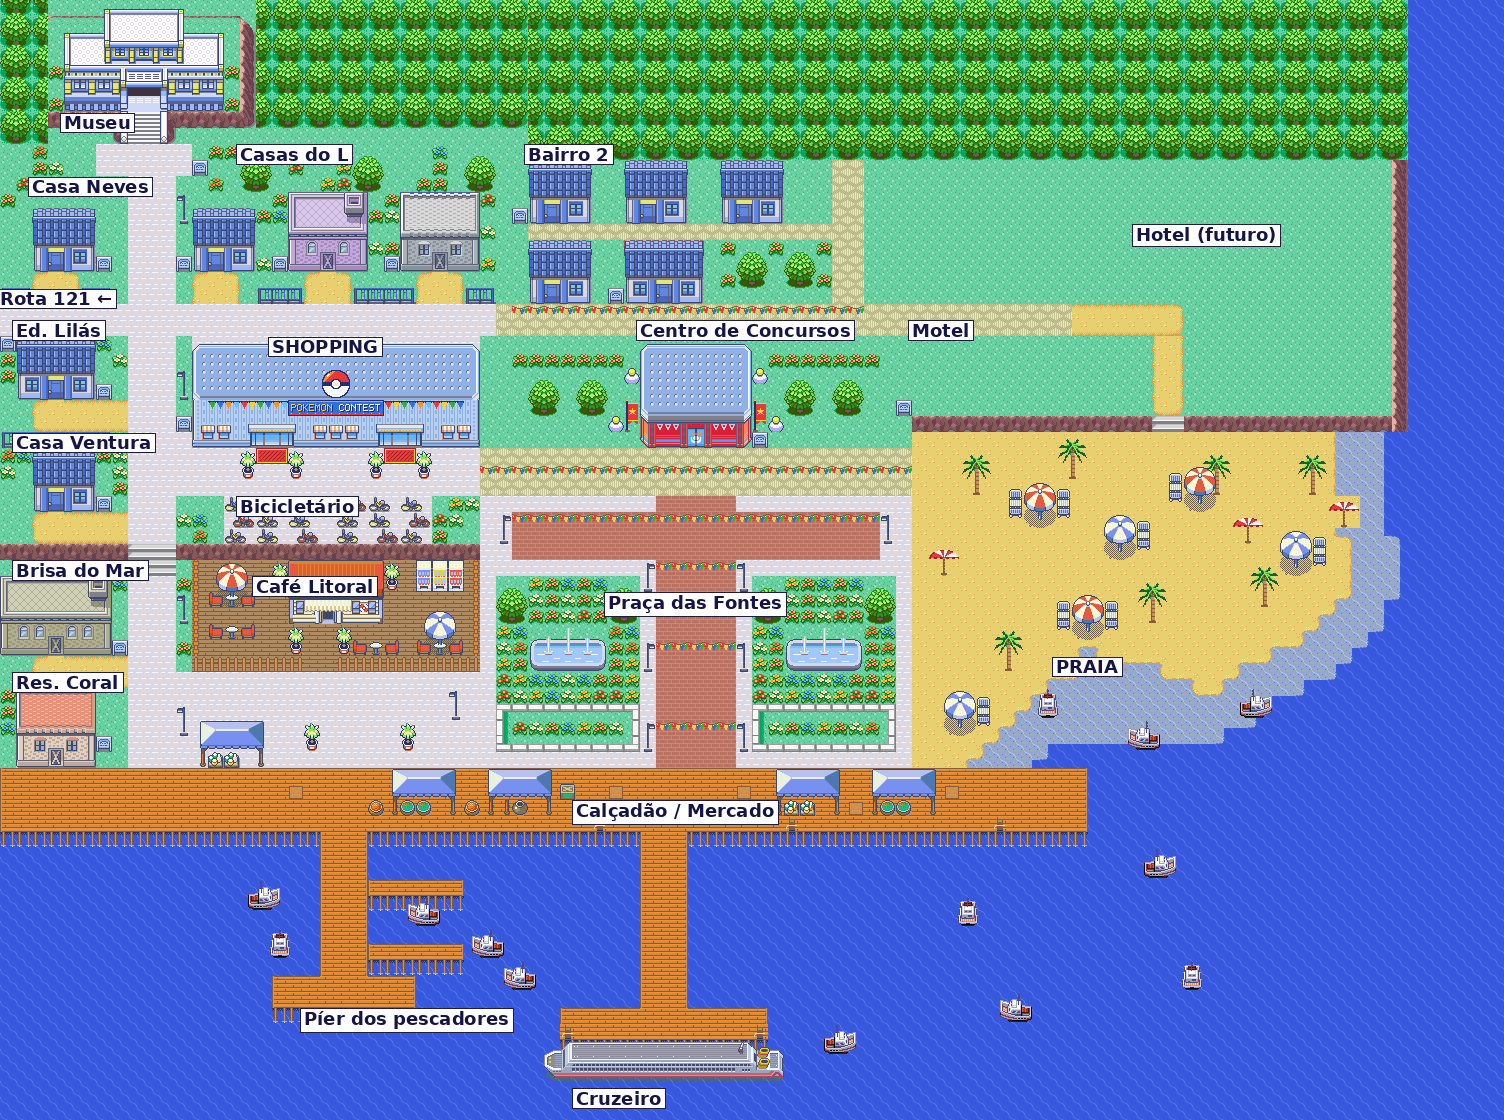
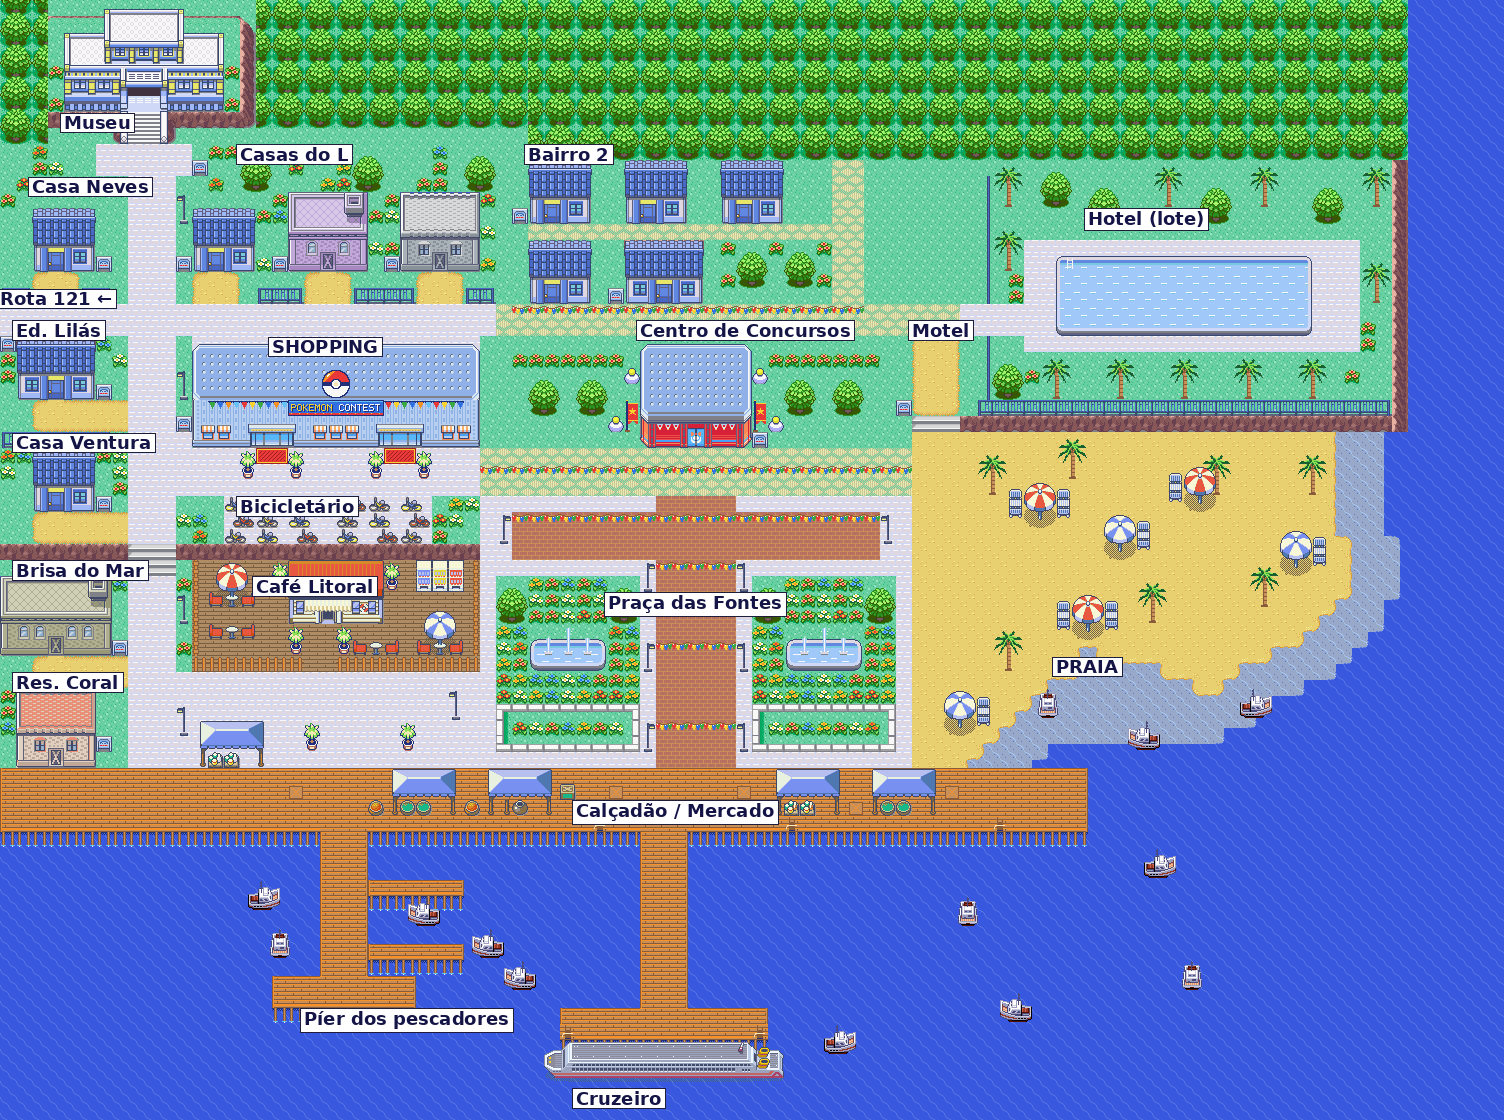
Hotel grounds (start): fenced lot, big pool, palms and trees; sand road beside it; flat umbrellas removed
Claude-Session: https://claude.ai/code/session_015nAeBdQj1XXGE9TrWVaT6H

Changed region(s): [[0.5938, 0.1562, 0.9375, 0.4375], [0.875, 0.4375, 0.9062, 0.4688]]

diff --git a/dev_scripts/lilycove_redesign/layout.py b/dev_scripts/lilycove_redesign/layout.py
@@ -346,16 +346,27 @@ trees(52, -8, 72, 2, grass_above=False)
 for y in range(2, 19): put(71, y, T(0x075, 1, 0))
 for x in range(41, 71): put(x, 18, T(0x079, 1, 0))
 fill(72, -8, 78, 19, DEEP)
-# --- sand road: from the end of the north street across the plateau and down to the beach
-fill(51, 11, 71, 13, GRASS)
-trail(51, 11, 58, 13, 'l')                    # along the north street line
-trail(56, 13, 58, 18, 't')                    # turning south (soft edges on both sides)
-stairs3(55, 18, 19) if False else None
-put(56, 18, T(0x0af)); put(57, 18, T(0x0cf))  # stairs down the cliff to the sand
+# --- sand road: from the end of the north street down a stair in the cliff to the beach (west of the hotel)
+fill(44, 11, 71, 13, GRASS)                                  # the north street now ends at x 43
+trail(41, 13, 44, 18, 't')
+put(41, 18, T(0x0af)); put(42, 18, T(0x0cf)); put(43, 18, T(0x0cf))   # 3-wide stair down the cliff
+
+# --- HOTEL grounds (start): fenced lot with a big pool, palms and trees; the building comes later
+HX0, HX1 = 45, 71                                             # lot x 45..70, rows 2..17
+for y in range(3, 18):
+    if y not in (11, 12): put(HX0, y, T(0x25a, 1, 0))         # west fence, gate at rows 11..12
+fence(HX0, HX1, 17)                                           # south fence (above the cliff)
+put(HX0, 17, T(0x252, 1, 0)) if False else None
+paving(44, 11, 48, 13)                                        # entrance through the gate
+paving(48, 7, 69, 14)                                         # pool deck
+art('hotel_pool', 50, 8, bottom='paving')                     # 16x5 pool
+for (px_, py_) in ((49, 14), (53, 14), (57, 14), (61, 14), (65, 14)): palm(px_, py_, 'grass')   # palm row by the beach
+for (px_, py_) in ((46, 2), (46, 6), (56, 2), (62, 2), (69, 2), (69, 8)): palm(px_, py_, 'grass')   # palms
+for (tx_, ty_) in ((49, 2), (52, 3), (59, 3), (66, 3), (46, 14)): tree1(tx_, ty_)                    # shade trees
+for (fx_, fy_) in ((47, 9), (47, 10), (69, 12), (69, 13), (48, 15), (68, 15)): put(fx_, fy_, FLOWERS)
 
 # --- beach dressing: palms and small festival umbrellas (tileset), umbrella+chair sets (sprites)
-for (px_, py_) in ((44, 20), (50, 19), (59, 20), (46, 31), (55, 28), (65, 20), (62, 27)): palm(px_, py_, 'sand')
-for (ux, uy) in ((42, 26), (61, 24), (67, 23)): umbrella(ux, uy)
+for (px_, py_) in ((45, 20), (50, 19), (59, 20), (46, 31), (55, 28), (65, 20), (62, 27)): palm(px_, py_, 'sand')
 decor('beach_set_red', 47, 22, walk_rows=1); decor('beach_set_blue', 53, 24, walk_rows=1)
 decor('beach_set_red_l', 57, 21, walk_rows=1); decor('beach_set_red', 50, 29, walk_rows=1)
 decor('beach_set_blue', 43, 35, walk_rows=1); decor('beach_set_blue', 64, 25, walk_rows=1)

diff --git a/dev_scripts/lilycove_redesign/plaza_art.py b/dev_scripts/lilycove_redesign/plaza_art.py
@@ -203,3 +203,46 @@ def flower(name):
     if name in ('flower_white', 'flower_blue'):           # mirror some for variety
         c = [row[::-1] for row in c]
     return c
+
+def pool(wt, ht):
+    """Large rectangular hotel pool (wt x ht metatiles), same style/palette as fountain_modern:
+    stone rim, dark outline, light-blue water with a shade under the far rim, ripples that repeat
+    every 16 px (cheap in tiles), a ladder and a front wall that gives depth."""
+    W, H = wt * 16, ht * 16
+    c = _canvas(W, H)
+    x0, x1, y0, y1, r = 1, W - 2, 1, H - 6, 4
+    def inside(x, y, a0, a1, b0, b1, rr):
+        if x < a0 or x > a1 or y < b0 or y > b1: return False
+        cx = min(max(x, a0 + rr), a1 - rr); cy = min(max(y, b0 + rr), b1 - rr)
+        return (x - cx) ** 2 + (y - cy) ** 2 <= rr * rr
+    for y in range(y0, H - 1):                       # front wall
+        for x in range(W):
+            if inside(x, y - 4, x0, x1, y0, y1, r) and not inside(x, y, x0, x1, y0, y1, r):
+                c[y][x] = MGR if y < H - 3 else DGR
+    for y in range(H):
+        for x in range(W):
+            if inside(x, y, x0, x1, y0, y1, r):
+                if inside(x, y, x0 + 3, x1 - 3, y0 + 3, y1 - 3, max(1, r - 3)):
+                    c[y][x] = LB1
+                    if y < y0 + 6: c[y][x] = B1
+                    elif y < y0 + 8: c[y][x] = LB2
+                    elif y > y0 + 9 and y < y1 - 4:  # ripples, 16 px period
+                        u, v = x % 16, y % 16
+                        if v in (4,) and 2 <= u <= 7: c[y][x] = WH
+                        if v in (11,) and 9 <= u <= 14: c[y][x] = WH
+                        if v in (5,) and 3 <= u <= 6: c[y][x] = LB2
+                        if v in (12,) and 10 <= u <= 13: c[y][x] = LB2
+                else:
+                    c[y][x] = LGR if y < (y0 + y1) // 2 else PALE
+    lx = x0 + 10                                     # pool ladder on the far rim
+    for y in range(y0 + 1, y0 + 12):
+        c[y][lx] = WH; c[y][lx + 5] = WH
+        if (y - y0) % 3 == 0:
+            for x in range(lx + 1, lx + 5): c[y][x] = LGR
+    out = [row[:] for row in c]
+    for y in range(H):
+        for x in range(W):
+            if c[y][x] == 0 and any(0 <= y + dy < H and 0 <= x + dx < W and c[y + dy][x + dx]
+                                    for dx, dy in ((1, 0), (-1, 0), (0, 1), (0, -1))):
+                out[y][x] = OUT
+    return out

diff --git a/dev_scripts/lilycove_redesign/overview.py b/dev_scripts/lilycove_redesign/overview.py
@@ -44,7 +44,7 @@ def build(out, labels=False):
 LABELS = [(-12, -1, 'Museu'), (-14, 3, 'Casa Neves'), (-1, 1, 'Casas do L'), (-16, 10, 'Rota 121 ←'), (-15, 12, 'Ed. Lilás'),
           (-15, 19, 'Casa Ventura'), (-15, 27, 'Brisa do Mar'), (-15, 34, 'Res. Coral'), (1, 13, 'SHOPPING'), (-1, 23, 'Bicicletário'),
           (0, 28, 'Café Litoral'), (24, 12, 'Centro de Concursos'), (22, 29, 'Praça das Fontes'), (41, 12, 'Motel'),
-          (17, 1, 'Bairro 2'), (55, 6, 'Hotel (futuro)'), (50, 33, 'PRAIA'), (20, 42, 'Calçadão / Mercado'),
+          (17, 1, 'Bairro 2'), (52, 5, 'Hotel (lote)'), (50, 33, 'PRAIA'), (20, 42, 'Calçadão / Mercado'),
           (20, 60, 'Cruzeiro'), (3, 55, 'Píer dos pescadores')]
 
 if __name__ == '__main__':

diff --git a/dev_scripts/lilycove_redesign/port_art.py b/dev_scripts/lilycove_redesign/port_art.py
@@ -222,3 +222,6 @@ def _beach_set(ux, uy, chairs):
 for _n, _mk in (('beach_set_red', lambda: _beach_set(9, 6, 'LR')), ('beach_set_blue', lambda: _beach_set(24, 3, 'R')),
                 ('beach_set_red_l', lambda: _beach_set(9, 6, 'L'))):
     _CANVAS[_n] = _fixed(_mk(), 11); PAL_OF[_n] = 11; ART[_n] = (lambda n=_n: _CANVAS[n])
+
+# ---- hotel pool (palette 8, like the plaza fountains) ----
+_CANVAS['hotel_pool'] = _P.pool(16, 5); PAL_OF['hotel_pool'] = _P.PAL8_SLOT; ART['hotel_pool'] = lambda: _CANVAS['hotel_pool']

diff --git a/docs/lilycove/README.md b/docs/lilycove/README.md
@@ -119,6 +119,16 @@ gerado por `build_city_tileset.py`. Ele mantém os ids de metatile que a cidade 
 (as animações de porta continuam funcionando) e reaproveita o espaço que só servia à
 Rota 121 e ao Safari. Tiles iguais ou espelhados são reaproveitados (espaço livre: ver abaixo).
 
+## Hotel (início)
+* **Lote cercado** no platô (x 45–70): cerca vertical azul de Lilycove no lado oeste, com
+  portão no fim da rua norte, e cerca horizontal na divisa com a praia.
+* **Piscina grande** (16×5) desenhada no estilo das fontes da praça (borda de pedra, água
+  com reflexos que se repetem a cada 16 px, escadinha, parede frontal), com deck de ladrilho.
+* **Área arborizada**: palmeiras e árvores alternadas no topo do lote e uma fileira de
+  palmeiras entre a piscina e a praia. O prédio do hotel vem depois (topo do lote).
+* A **estrada de areia** agora desce ao lado do lote (x 41–43) por uma escada de 3 tiles; placa
+  "Praia de Lilycove / Hotel Litoral (em obras)".
+
 ## Praia (leste)
 O mapa ganhou 14 colunas a leste (agora 94×70).
 * **Orla natural e horizontal**: a areia desce até o calçadão no oeste e a linha d'água corre
@@ -129,8 +139,7 @@ O mapa ganhou 14 colunas a leste (agora 94×70).
   removidos; o platô vai da rua norte até a ponta leste, com falésia na divisa com a praia e
   floresta atrás. O warp do Motel ficou estacionado no platô para o futuro hotel.
 * **Praça → praia sem faixa de grama**: o ladrilho da praça encosta direto na areia.
-* **Estrada de areia**: continua a rua norte pelo platô e desce por uma escada na falésia até a praia.
-* **Adereços**: palmeiras e guarda-sóis do festival; **conjuntos de guarda-sol da Rota 109 com
+* **Adereços**: palmeiras e **conjuntos de guarda-sol da Rota 109 com
   espreguiçadeiras** (sprites, sombra pontilhada na areia).
 * `overview.py` gera o mapa completo com os sprites (`docs/lilycove/mapa_geral*.png`).
 
